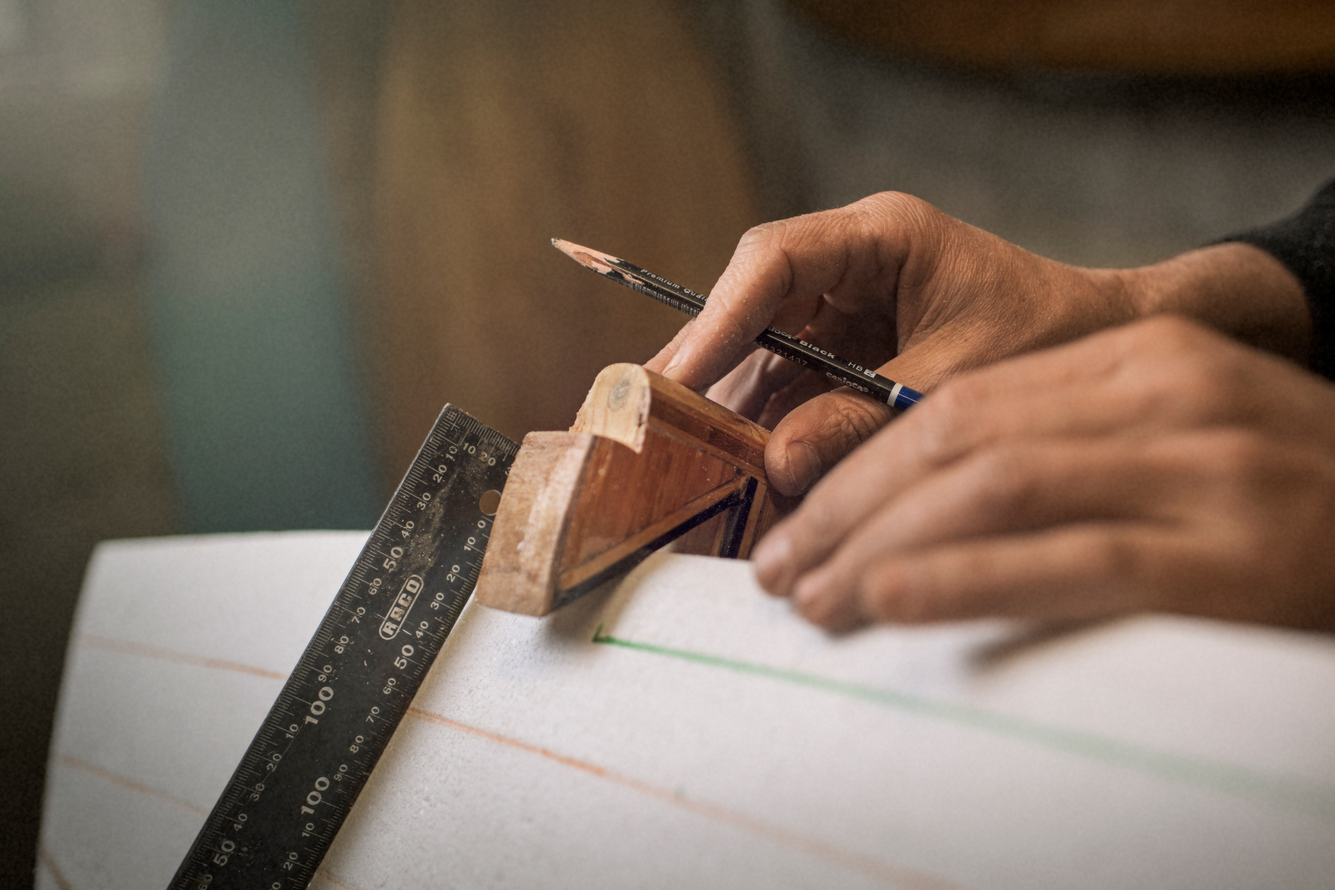
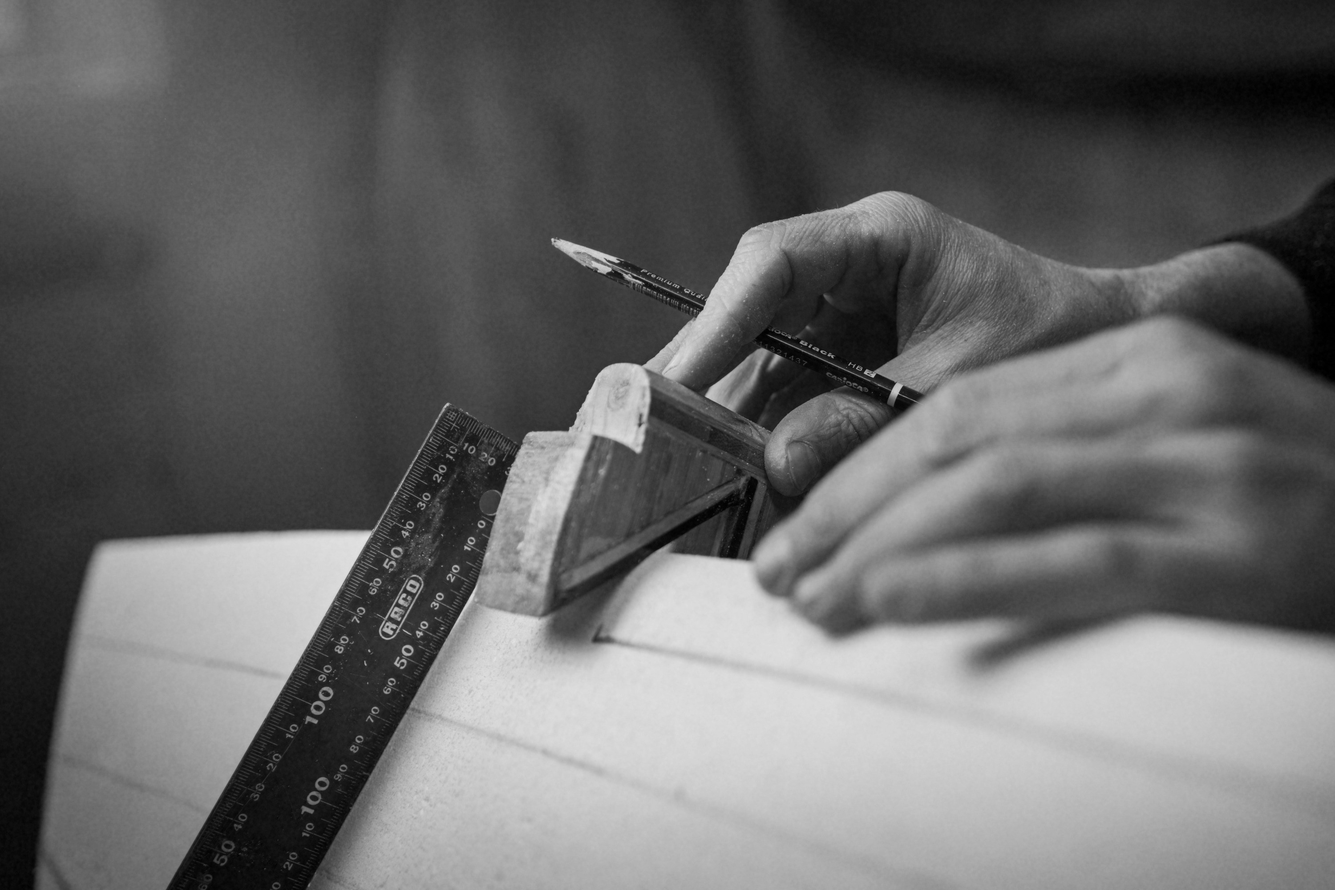
picture change

diff --git a/index.html b/index.html
@@ -144,7 +144,7 @@
     <!-- <h2>Naturally Better</h2> -->
     <div class="subsection">
       <div class="banner-container">
-        <img src="images/_DSC3996-kopie1.jpg" alt="Surfboard Shaper 1" class="banner-img">
+        <img src="images/Liamshaper (1).jpg" alt="Surfboard Shaper 1" class="banner-img">
         <img src="images/Screenshot (49).png" alt="Surfboard Shaper 2" class="banner-img">
         <img src="images/Screenshot (52)121.png" alt="Surfboard Shaper 3" class="banner-img">
         <img src="images/Liamshaper (4).jpg" alt="Surfboard Shaper 4" class="banner-img">
